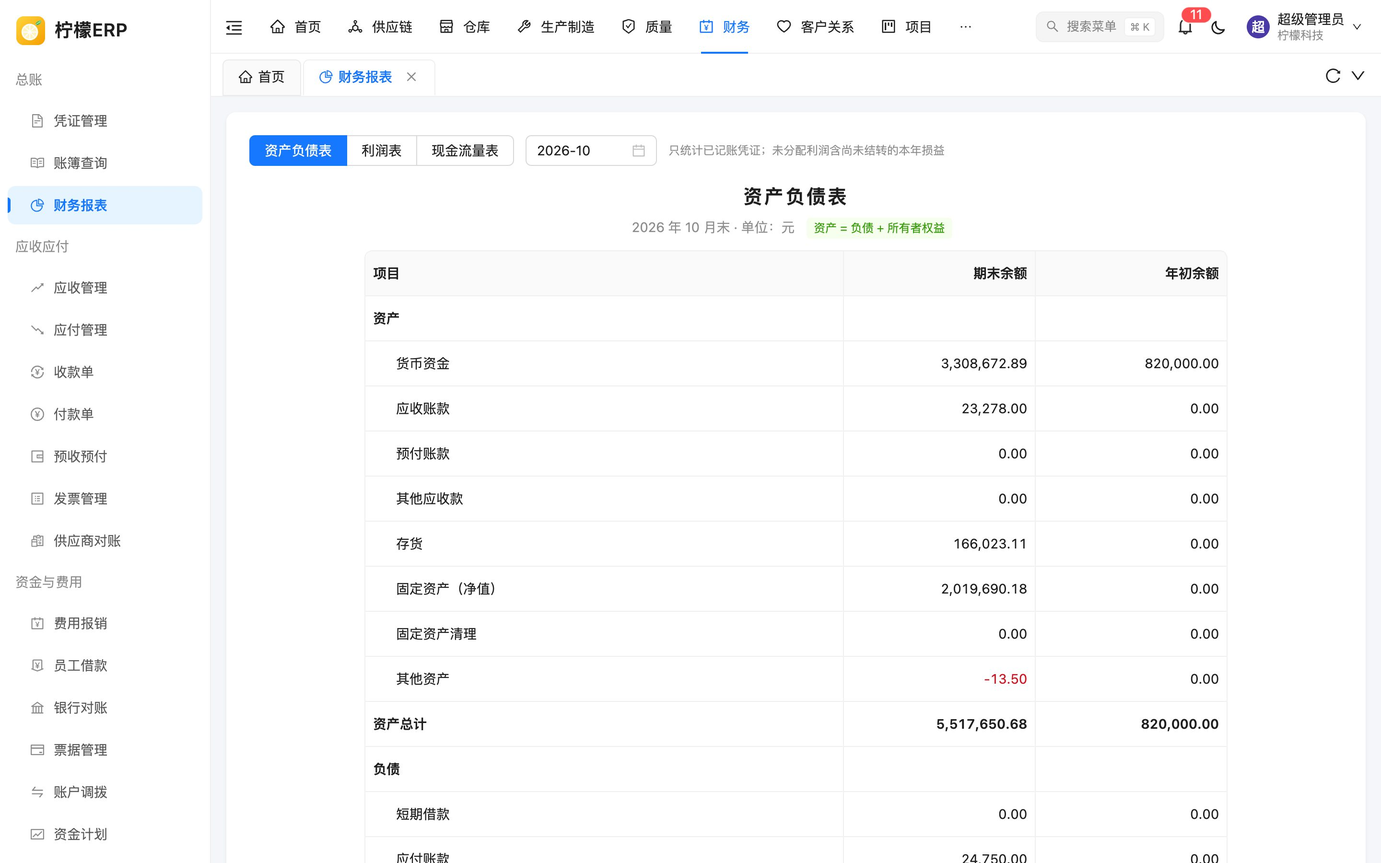
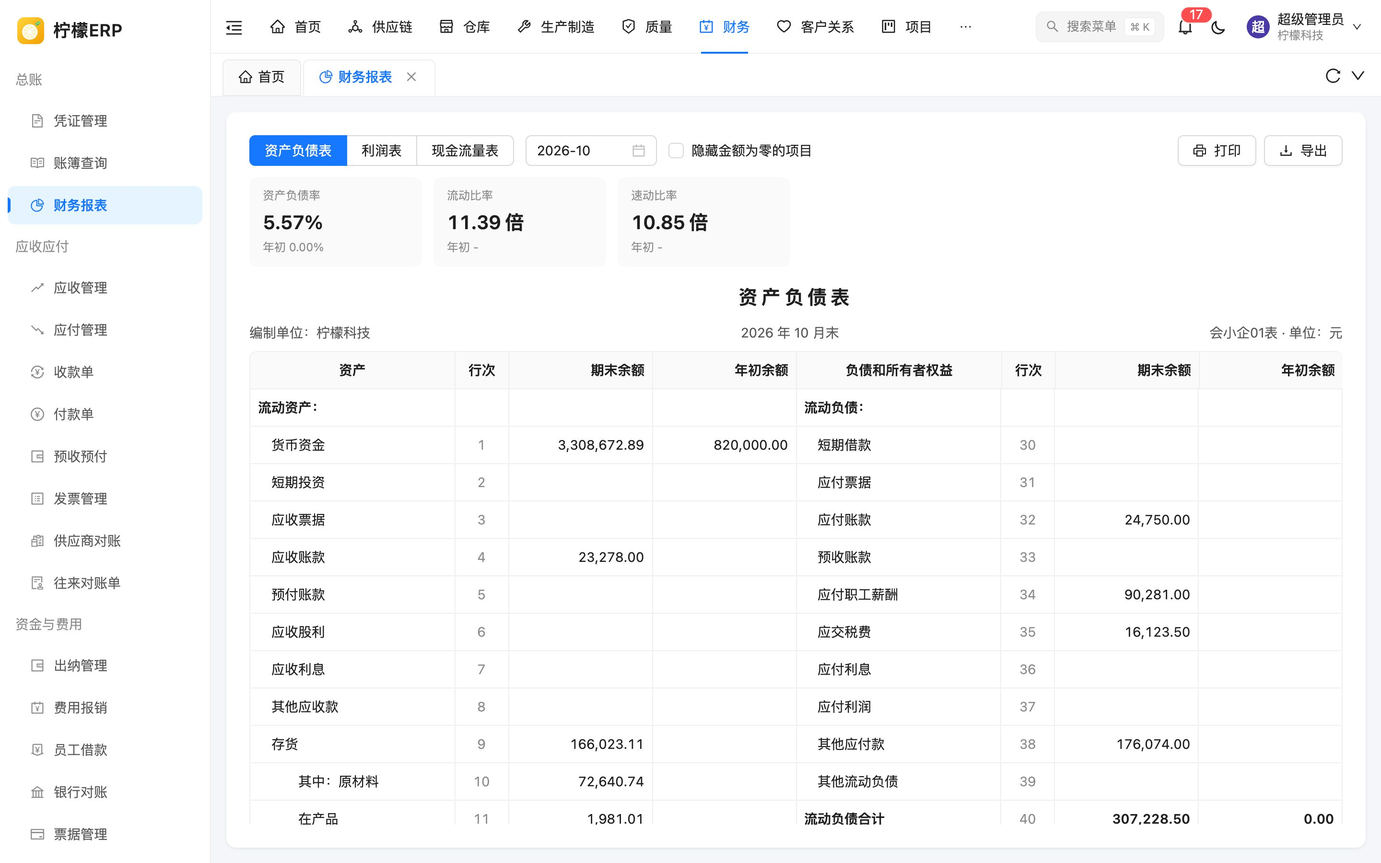
docs: 财务报表改为小企业会计准则格式，更新凭证科目设置与业务参数截图

diff --git a/docs/manual/fin/report.md b/docs/manual/fin/report.md
@@ -4,69 +4,157 @@ order: 3
 
 # 财务报表
 
-根据已记账凭证自动生成资产负债表、利润表和现金流量表，无需手工编制。财务主管、管理层查看。
+根据已记账凭证自动生成资产负债表、利润表和现金流量表，格式参照《小企业会计准则》（会小企01表、会小企02表、会小企03表），每个项目带行次。报表上方列出常用财务指标，利润表下方有本年利润趋势图；点击报表中的金额可以逐级追溯到构成科目、明细账和凭证。报表可以打印和导出 Excel。财务主管、会计、管理层查看。
 
 ## 页面入口
 
 财务 → 总账 → 财务报表
 
-页面顶部用按钮切换三张报表，右侧选择期间；报表标题下方注明期间和「单位：元」。所有报表**只统计已记账的凭证**。
+![资产负债表](/images/manual/fin/report-balance.jpg)
+
+## 页面布局
+
+顶部工具栏从左到右：
+
+| 控件 | 说明 |
+| --- | --- |
+| 「资产负债表」「利润表」「现金流量表」 | 切换报表，默认打开资产负债表 |
+| 期间 | 资产负债表、利润表选择一个月份，默认当前月份；现金流量表选择开始期间和截止期间，默认本年 1 月至当前月份，开始期间晚于截止期间时自动调整为与截止期间相同。修改后立即重新计算 |
+| 「隐藏金额为零的项目」 | 资产负债表、利润表可勾选：各列金额都为零的普通项目不显示（分组标题、合计行始终显示） |
+| 「打印」 | 生成 PDF 打印预览，见[打印与导出](#打印与导出) |
+| 「导出」 | 导出当前报表为 Excel |
+
+工具栏下方依次是：
+
+1. **财务指标卡片**（资产负债表、利润表）：鼠标悬停在卡片上显示计算公式，见[财务指标](#财务指标)；
+2. **报表正文**：居中的报表名称；表头一行左侧为「编制单位」（公司名称），中间为期间（资产负债表为「2026 年 10 月末」，利润表为「2026 年 10 月」，现金流量表为「2026 年 1 月 至 2026 年 10 月」），右侧为表号和「单位：元」；
+3. **表尾签字栏**：「单位负责人」「会计主管」「制表」（制表为当前登录用户）；
+4. **说明**：报表的取数口径提示，例如「只统计已记账凭证；未分配利润含尚未结转的本年损益，生产成本等成本类科目余额计入存货。点击金额可查看构成科目和明细账」；
+5. **利润趋势图**（仅利润表）。
+
+报表中，普通项目金额为零时留空，合计行显示 0.00；负数以红色显示。报表较长时只有报表区域滚动，表头固定在顶部。
+
+::: tip 提示
+所有报表**只统计已记账的凭证**。凭证审核后还需要在[凭证管理](./voucher)中记账，才会进入报表。报表实时计算，记账后重新选择期间或刷新页面即可看到变化。
+:::
+
+## 取数规则
+
+资产负债表和利润表的每个项目按**会计科目编码前缀**取数：
+
+- 取编码以所列前缀开头的**末级科目**，借方项目取「借方 − 贷方」，贷方项目取「贷方 − 借方」；
+- 每个科目只计入第一个匹配的项目，不会重复计算；
+- 「其中」项（如存货下的原材料、在产品）只用于展示，不参与合计；
+- 合计行按行次相加减，例如「流动资产合计」为「行 1 + 2 + … + 9 + 14」；
+- 没有被任何项目匹配到的科目，按科目类别计入兜底项目（其他流动资产、其他流动负债、存货、未分配利润、营业外收入 / 支出），以保证报表平衡。
+
+所以新增明细科目时，只要挂在正确的上级科目之下（见[会计科目](./account)），就会自动进入对应的报表项目。每一行的取数说明可以点击金额查看，见[追溯到科目、明细账和凭证](#追溯到科目、明细账和凭证)。
 
 ## 资产负债表
 
-![资产负债表](/images/manual/fin/report-balance.jpg)
+表号「会小企01表」。左右两栏：左栏为「资产」，右栏为「负债和所有者权益」，每栏有「行次」「期末余额」「年初余额」三列。
 
-- **期间**：选择月份，报表为该月末的余额。
-- **列**：期末余额、年初余额（上年末余额）。
-- 报表按以下项目归集末级科目余额：
+- **期末余额**：所选月份月末的余额；
+- **年初余额**：上年 12 月末的余额；
+- 资产为第 1 ~ 29 行，负债和所有者权益接着从第 30 行编号到第 52 行。
 
-| 分类 | 项目 | 取数科目 |
+| 行次 | 项目 | 取数（科目编码前缀） |
 | --- | --- | --- |
-| 资产 | 货币资金 | 库存现金 1001、银行存款 1002 |
-| | 应收账款 / 预付账款 / 其他应收款 | 1122 / 1123 / 1221 |
-| | 存货 | 原材料 1403、库存商品 1405，以及全部成本类科目（5 开头，如生产成本） |
-| | 固定资产（净值） | 固定资产 1601 减累计折旧 1602 |
-| | 固定资产清理 | 1606 |
-| | 其他资产 | 其余资产类科目 |
-| 负债 | 短期借款、应付账款、预收账款、应付职工薪酬、应交税费、其他应付款 | 2001、2202、2203、2211、2221、2241 |
-| | 其他负债 | 其余负债类科目 |
-| 所有者权益 | 实收资本 | 4001 |
-| | 未分配利润 | 本年利润 4103、利润分配 4104，以及全部损益类科目（6 开头） |
-| | 其他权益 | 其余权益类科目 |
+| | **流动资产：** | |
+| 1 | 货币资金 | 1001 库存现金、1002 银行存款、1012 其他货币资金 |
+| 2 | 短期投资 | 1101 |
+| 3 | 应收票据 | 1121 |
+| 4 | 应收账款 | 1122 |
+| 5 | 预付账款 | 1123 |
+| 6 | 应收股利 | 1131 |
+| 7 | 应收利息 | 1132 |
+| 8 | 其他应收款 | 1221 |
+| 9 | 存货 | 140、141、142 开头（原材料、库存商品、委托加工物资、周转材料等），5 开头（生产成本、制造费用等），4301，以及其他未列示的成本类科目 |
+| 10 ~ 13 | 其中：原材料 / 在产品 / 库存商品 / 周转材料 | 1403 / 5001 / 1405 / 1411（只展示，已包含在存货中） |
+| 14 | 其他流动资产 | 未被列示的其他资产类科目 |
+| 15 | **流动资产合计** | 行 1 ~ 9、14 之和 |
+| | **非流动资产：** | |
+| 16 | 长期债券投资 | 1501 |
+| 17 | 长期股权投资 | 1511 |
+| 18 | 固定资产原价 | 1601 |
+| 19 | 减：累计折旧 | 1602（取贷方余额） |
+| 20 | 固定资产账面价值 | 行 18 − 19 |
+| 21 | 在建工程 | 1604 |
+| 22 | 工程物资 | 1605 |
+| 23 | 固定资产清理 | 1606 |
+| 24 | 生产性生物资产 | 1621、1622 |
+| 25 | 无形资产 | 1701、1702 |
+| 26 | 长期待摊费用 | 1801 |
+| 27 | 其他非流动资产 | 目前不取数 |
+| 28 | **非流动资产合计** | 行 16、17、20 ~ 27 之和 |
+| 29 | **资产总计** | 行 15 + 28 |
+| | **流动负债：** | |
+| 30 | 短期借款 | 2001 |
+| 31 | 应付票据 | 2201 |
+| 32 | 应付账款 | 2202 |
+| 33 | 预收账款 | 2203 预收账款、2205 合同负债 |
+| 34 | 应付职工薪酬 | 2211 |
+| 35 | 应交税费 | 2221 |
+| 36 | 应付利息 | 2231 |
+| 37 | 应付利润 | 2232 |
+| 38 | 其他应付款 | 2241 |
+| 39 | 其他流动负债 | 未被列示的其他负债类科目 |
+| 40 | **流动负债合计** | 行 30 ~ 39 之和 |
+| | **非流动负债：** | |
+| 41 | 长期借款 | 2501 |
+| 42 | 长期应付款 | 2701 |
+| 43 | 递延收益 | 2401 |
+| 44 | 其他非流动负债 | 目前不取数 |
+| 45 | **非流动负债合计** | 行 41 ~ 44 之和 |
+| 46 | **负债合计** | 行 40 + 45 |
+| | **所有者权益（或股东权益）：** | |
+| 47 | 实收资本（或股本） | 4001 |
+| 48 | 资本公积 | 4002 |
+| 49 | 盈余公积 | 4101 |
+| 50 | 未分配利润 | 4103 本年利润、4104 利润分配、全部损益类科目（6 开头），以及其他未列示的权益类、损益类科目 |
+| 51 | **所有者权益合计** | 行 47 ~ 50 之和 |
+| 52 | **负债和所有者权益总计** | 行 46 + 51 |
 
-- **未分配利润包含尚未结转的本年损益**，因此在月末结账之前查看报表也是平衡的。
-- 标题下方显示校验结果：平衡时显示绿色「资产 = 负债 + 所有者权益」，不平衡时显示红色「报表不平衡，请检查科目设置」。
+- **未分配利润包含尚未结转的本年损益**，因此在月末结转损益之前查看报表也是平衡的；
+- **生产成本、制造费用等成本类科目的余额计入存货**（期末在产品等）；
+- 资产总计与负债和所有者权益总计（期末或年初任一列）不相等时，报表上方显示红色提示「报表不平衡：资产总计不等于负债和所有者权益总计，请检查科目设置」。平衡时不显示提示。
 
 ## 利润表
 
+表号「会小企02表」。列为「行次」「本月金额」「本年累计金额」「上年同期累计」：
+
+- **本月金额**：所选月份的发生额；
+- **本年累计金额**：本年 1 月至所选月份；
+- **上年同期累计**：上年 1 月至上年同一月份。
+
 ![利润表](/images/manual/fin/report-income.jpg)
 
-- **期间**：选择月份。
-- **列**：本期金额（当月）、本年累计（1 月至所选月份）。
-- **不含期末结转损益凭证**，因此结账前后查看结果一致。
+| 行次 | 项目 | 取数 |
+| --- | --- | --- |
+| 1 | **一、营业收入** | 6001 主营业务收入、6051 其他业务收入（贷方 − 借方） |
+| 2 | 减：营业成本 | 6401 主营业务成本、6402 其他业务成本 |
+| 3 | 税金及附加 | 6403 |
+| 4 | 销售费用 | 6601 |
+| 5 | 管理费用 | 6602 |
+| 6 | 财务费用 | 6603 |
+| 7 | 加：投资收益 | 6111（贷方 − 借方） |
+| 8 | **二、营业利润** | 行 1 − 2 − 3 − 4 − 5 − 6 + 7 |
+| 9 | 加：营业外收入 | 6301，以及未列示的其他贷方损益科目 |
+| 10 | 减：营业外支出 | 6711，以及未列示的其他借方损益科目 |
+| 11 | **三、利润总额** | 行 8 + 9 − 10 |
+| 12 | 减：所得税费用 | 6801 |
+| 13 | **四、净利润** | 行 11 − 12 |
 
-| 项目 | 取数 |
-| --- | --- |
-| 一、营业收入 | 主营业务收入 6001、其他业务收入 6051 |
-| 减：营业成本 | 主营业务成本 6401、其他业务成本 6402 |
-| 税金及附加 | 6403 |
-| 销售费用 / 管理费用 / 财务费用 | 6601 / 6602 / 6603 |
-| 二、营业利润 | 营业收入 − 营业成本 − 税金及附加 − 三项费用 |
-| 加：营业外收入 | 6301，另加其余未列出的贷方损益科目 |
-| 减：营业外支出 | 6711，另加其余未列出的借方损益科目 |
-| 三、利润总额 | 营业利润 + 营业外收入 − 营业外支出 |
-| 减：所得税费用 | 6801 |
-| 四、净利润 | 利润总额 − 所得税费用 |
-
-收入类取贷方减借方，费用类取借方减贷方，负数以红色显示。
+- 收入类项目取贷方减借方，成本费用类项目取借方减贷方；
+- **不含期末结转损益凭证**，所以月末结账前后查看结果一致。
 
 ## 现金流量表
 
+表号「会小企03表」。选择开始期间和截止期间，只有「行次」「金额」两列。
+
 ![现金流量表](/images/manual/fin/report-cash.jpg)
 
-- **期间**：选择开始期间和截止期间（默认本年 1 月至当前月份），开始期间晚于截止期间时自动调整为与截止期间相同。
-- 采用**直接法**：取已记账凭证中库存现金、银行存款科目的发生额，按凭证中的**对方科目**归类到现金流量项目。
-- 一张凭证有多个对方科目时，按对方科目金额比例分摊；只有现金、银行科目之间的划转（如提现、账户调拨）不计入。
+采用**直接法**：取已记账凭证中库存现金（1001）、银行存款（1002）及其下级科目的发生额，按凭证中的**对方科目**归类到现金流量项目。一张凭证有多个对方科目时，按对方科目金额比例分摊；只有现金、银行科目之间的划转（如提现、账户调拨）不计入。
 
 | 分类 | 项目 | 对方科目规则 |
 | --- | --- | --- |
@@ -76,18 +164,70 @@ order: 3
 | | 支付给职工以及为职工支付的现金 | 应付职工薪酬 |
 | | 支付的各项税费 | 应交税费、税金及附加、所得税费用 |
 | | 支付其他与经营活动有关的现金 | 其余流出 |
-| 投资活动 | 处置固定资产等收回的现金净额 / 购建固定资产等支付的现金 | 固定资产、在建工程、固定资产清理 |
+| 投资活动 | 处置固定资产、无形资产和其他长期资产收回的现金净额 | 流入，对方为固定资产、在建工程、固定资产清理 |
+| | 购建固定资产、无形资产和其他长期资产支付的现金 | 流出，对方同上 |
 | 筹资活动 | 吸收投资收到的现金 | 实收资本流入 |
 | | 取得借款收到的现金 / 偿还债务支付的现金 | 短期借款 |
 | | 分配股利、利润或偿付利息支付的现金 | 实收资本流出、利润分配、财务费用流出 |
 
-每类活动列出现金流入小计、流出小计和净额，最后为「现金及现金等价物净增加额」「期初现金及现金等价物余额」「期末现金及现金等价物余额」。
+每类活动之后列出现金流入小计、现金流出小计和现金流量净额，最后为「四、现金及现金等价物净增加额」「加：期初现金及现金等价物余额」「五、期末现金及现金等价物余额」。除分类标题外，各行按顺序编行次（共 24 行）。
 
-如果计算出的期末余额与账面现金、银行存款余额不一致，页面顶部显示黄色提示（通常是存在未记账的现金凭证）。
+计算出的期末余额与账面库存现金、银行存款余额不一致时，报表上方显示黄色提示「期末余额与账面不一致（账面现金及银行存款余额 ¥…），可能有未记账的现金凭证」。
+
+现金流量表没有财务指标，金额也不能点击追溯；需要查看现金收支明细时使用[出纳管理](./cashier)的日记账。
+
+## 财务指标
+
+资产负债表和利润表的报表上方显示指标卡片：大字为当期值，下方小字为对比值（资产负债表为「年初」，利润表为「本年累计」）。鼠标悬停在卡片上显示计算公式。分母为零时显示「-」。
+
+| 报表 | 指标 | 计算方式 | 含义 |
+| --- | --- | --- | --- |
+| 资产负债表 | 资产负债率 | 负债合计 ÷ 资产总计 × 100% | 总资产中有多少来自负债，衡量长期偿债风险，越高负债压力越大 |
+| | 流动比率 | 流动资产合计 ÷ 流动负债合计（倍） | 每 1 元短期负债有多少流动资产可以偿还，衡量短期偿债能力 |
+| | 速动比率 | （流动资产合计 − 存货）÷ 流动负债合计（倍） | 扣除变现较慢的存货后的短期偿债能力，比流动比率更严格 |
+| 利润表 | 毛利率 | （营业收入 − 营业成本）÷ 营业收入 × 100% | 产品或服务本身的盈利空间 |
+| | 营业利润率 | 营业利润 ÷ 营业收入 × 100% | 扣除成本、税金和三项费用后的经营盈利能力 |
+| | 净利率 | 净利润 ÷ 营业收入 × 100% | 每 1 元收入最终带来的净利润 |
+| | 期间费用率 | （销售费用 + 管理费用 + 财务费用）÷ 营业收入 × 100% | 期间费用占收入的比重，衡量费用控制水平 |
+
+指标保留两位小数。资产负债表的指标分别按期末余额、年初余额计算；利润表的指标分别按本月金额、本年累计金额计算。
+
+## 利润趋势
+
+所选月份为 2 月及以后时，利润表下方显示「XXXX 年利润趋势」图：横轴为本年 1 月至所选月份，柱形为「营业收入」「营业成本」，折线为「营业利润」「净利润」，鼠标悬停显示各月金额。口径与利润表相同：只统计已记账凭证，不含结转损益凭证。
+
+![利润趋势](/images/manual/fin/report-trend.jpg)
+
+## 追溯到科目、明细账和凭证
+
+资产负债表、利润表中有取数规则的金额（项目行、其中项和合计行）都可以点击，鼠标移上去时金额变为带下划线的主题色。点击后右侧打开以项目名称为标题的抽屉：
+
+![追溯到科目和明细账](/images/manual/fin/report-drill.jpg)
+
+1. **取数说明**：显示「行次」「取数」和该行各列的金额。取数为科目规则（如「科目 1001、1002、1012 的借方余额」，兜底项目会注明「以及未列示的其他资产类科目」）或行次公式（如「行 15 + 28」）；
+2. **构成科目**：列出该项目包含的、有余额或发生额的末级科目，以及各科目在各列的金额（按报表行的方向取数）。没有科目时显示「没有余额或发生额的科目」。合计行没有构成科目，只显示行次公式，可以关闭后再点击被合计的各行；
+3. **明细账**：点击构成科目的编码，下方显示该科目的明细账（期间为本年 1 月至报表所选月份），包括「期初余额」行、逐笔分录（日期、凭证号、摘要、借方、贷方、方向、余额）和「本期合计」行，当前选中的科目整行高亮；
+4. **凭证**：点击明细账中的凭证号，打开该凭证的详情，可以查看分录、附件，也可以打印。
+
+关闭抽屉即回到报表，报表的期间和滚动位置不变。
+
+::: tip 提示
+利润表「上年同期累计」列的构成科目金额可以在抽屉中看到，但明细账只查询本年 1 月至所选月份。需要查看上年明细时，到[账簿查询](./book)中选择相应期间。
+:::
+
+## 打印与导出
+
+- **打印**：按当前显示的报表生成 PDF，默认 A4 纵向，版式与页面一致：报表名称、编制单位、期间、单位与表号，表格各列，以及签字栏「单位负责人」「会计主管」「制表」。勾选了「隐藏金额为零的项目」时，打印结果同样不含这些项目。三张报表在[打印模板](../system/print-template)的「财务」分组下各有一个模板（「资产负债表」「利润表」「现金流量表」），可以调整纸张、字号、列宽、签字栏名称等；
+- **导出**：导出为 Excel 文件，文件名为「报表名称_期间」，例如「资产负债表_2026 年 10 月末」。列与页面一致（项目名称按层级缩进），金额导出为数字，可直接在 Excel 中计算。
 
 ## 注意事项
 
 ::: tip 提示
-- 报表数据实时计算，凭证记账后刷新即可看到变化。
-- 报表项目按科目编码取数，新增科目请按[会计科目](./account)的编码规则挂在正确的上级之下，否则会进入「其他」项目。
+- 报表数据实时计算，凭证记账后即可看到变化，不需要结账。
+- 报表项目按科目编码取数，新增科目请按[会计科目](./account)的编码规则挂在正确的上级之下，否则会进入「其他流动资产」「其他流动负债」「未分配利润」「营业外收入 / 支出」等兜底项目。
+- 资产负债表不平衡通常是因为科目期初余额借贷不平衡或科目类别设置错误，可在[账簿查询](./book)的科目余额表中检查试算平衡。
+:::
+
+::: warning 注意
+资产负债表的货币资金包含其他货币资金（1012），而现金流量表只统计库存现金和银行存款（1001、1002）。使用了其他货币资金科目时，现金流量表的期末余额与资产负债表的货币资金会有差异。
 :::

diff --git a/docs/dev/guide/doc-no-print.md b/docs/dev/guide/doc-no-print.md
@@ -102,7 +102,7 @@ printDocs(doc, '打印任务标题', '模板标识')
 | `title` | string | 单据名称，如「记账凭证」 |
 | `no` | string | 单号，显示在标题下方（`No. 单号`） |
 | `fields` | `[标签, 值, 是否整行][]` | 表头字段，每行三个，第三项为 `true` 时独占一行 |
-| `columns` | `{ title, key?, value?, align?, width? }[]` | 明细列：`key` 取行的字段，或 `value(row, index)` 计算；`align: 'right'` 右对齐；`width` 列宽（mm），一般不在代码中写，由打印模板设置 |
+| `columns` | `{ title, id?, key?, value?, align?, width? }[]` | 明细列：`key` 取行的字段，或 `value(row, index)` 计算；`align: 'right'` 右对齐；`width` 列宽（mm），一般不在代码中写，由打印模板设置（财务报表这类固定版式的报表在代码中给出默认列宽）；`id` 为打印模板匹配用的标识，默认同 `title`，同一张单据中有同名列时用它区分（如资产负债表左右两栏都有「行次」「期末余额」，右栏的 `id` 为「行次（右）」「期末余额（右）」，打印出来的列名仍是 `title`） |
 | `rows` | object[] | 明细行 |
 | `totals` | object | 合计行 `{ 列 key: 值 }`，按列的 `key` 对应到列上（没有 `key` 的列不能放合计值）；第一列没有值时显示「合计」 |
 | `sections` | `{ title, columns, rows }[]` | 主明细之后的其他明细表（如生产任务单的工序），最多 5 个 |
@@ -110,7 +110,7 @@ printDocs(doc, '打印任务标题', '模板标识')
 | `note` | string | 备注，显示在明细之后 |
 | `slip` | boolean | 条状单据（工资条）：一页连续打印多条，之间用虚线分隔，每条不跨页拆开 |
 
-表头字段、明细列、签字栏的**名称就是它们的标识**：打印模板按名称匹配配置，套打按名称定位，上传的 JRXML 按名称取值（`$P{FIELDS}.get("供应商")`、`$F{物料名称}`）。因此同一张单据中的名称不要重复，也不要随意修改已有单据的名称，否则用户保存过的模板会对应不上。
+表头字段、明细列（有 `id` 时为 `id`）、签字栏的**名称就是它们的标识**：打印模板按名称匹配配置，套打按名称定位，上传的 JRXML 按名称取值（`$P{FIELDS}.get("供应商")`、`$F{物料名称}`）。因此同一张单据中的名称不要重复，也不要随意修改已有单据的名称，否则用户保存过的模板会对应不上。
 
 真实示例（`components/fin/VoucherDetail.vue`）：
 
@@ -244,7 +244,7 @@ export const PRINT_TYPES = [
 | `key` | 模板标识，`printDocs` 的第三个参数，建议「模块.单据」（只能包含字母、数字、下划线和点，最长 64 个字符） |
 | `module` / `name` | 模板列表中的分组和名称 |
 | `fields` | 表头字段名称，**与 doc.fields 中的标签一致** |
-| `columns` | 明细列标题，**与 doc.columns 中的 title 一致**；数字列可写 `{ title: '数量', align: 'right' }`（文件内的 `num('数量')`） |
+| `columns` | 明细列标题，**与 doc.columns 中的 title 一致**（列有 `id` 时与 `id` 一致）；数字列可写 `{ title: '数量', align: 'right' }`（文件内的 `num('数量')`） |
 | `signs` | 签字栏名称，**与 doc.signs 中的名称一致** |
 | `note` | 是否有备注 |
 | `slip` | 是否条状单据 |
@@ -303,6 +303,7 @@ function print(r) {
 | `scm.pickList`、`scm.wavePick`、`scm.packingList` | 拣货单、波次拣货单、装箱单 |
 | `wms.in`、`wms.out`、`wms.transfer` | 入库单、出库单、调拨单 |
 | `fin.voucher` | 记账凭证 |
+| `fin.balanceSheet`、`fin.incomeStatement`、`fin.cashFlow` | 资产负债表、利润表、现金流量表（`views/fin/report`，明细列为报表的项目、行次和金额列） |
 | `fin.partnerStatement` | 往来对账单（客户 / 供应商共用一个模板） |
 | `mes.workOrder` | 生产任务单 |
 | `hr.payslip` | 工资条（条状） |

diff --git a/docs/manual/system/biz-rule.md b/docs/manual/system/biz-rule.md
@@ -27,7 +27,7 @@ order: 12
 - 修改过（与默认值不同并已保存）的参数显示蓝色「已修改」标签；
 - 改动后尚未保存的参数显示橙色「未保存」标签；
 - 当前值与默认值不同时，右侧出现「恢复默认」链接，点击后把输入恢复为默认值（仍需保存）；
-- 页面底部「放弃修改」撤销全部未保存的改动，「保存（N）」一次保存全部改动（N 为改动的参数个数），各页签的改动会一起保存，成功后提示「已保存」；
+- 页面占满内容区，参数较多时只有中间的参数区域滚动；页面底部固定显示「放弃修改」「保存（N）」按钮：「放弃修改」撤销全部未保存的改动，「保存（N）」一次保存全部改动（N 为改动的参数个数），各页签的改动会一起保存，成功后提示「已保存」；
 - 保存后**立即生效**，不需要重新登录；
 - 没有「业务参数修改」权限的用户只能查看，输入框不可编辑，也没有底部按钮。
 

diff --git a/docs/manual/fin/index.md b/docs/manual/fin/index.md
@@ -12,7 +12,7 @@
 | --- | --- | --- |
 | 总账 | [凭证管理](./voucher) | 凭证录入、审核、记账、冲销、反审核，凭证审批 |
 | | [账簿查询](./book) | 科目余额表、明细账、辅助核算（部门 / 客户 / 供应商 / 项目 / 存货） |
-| | [财务报表](./report) | 资产负债表、利润表、现金流量表 |
+| | [财务报表](./report) | 小企业会计准则格式的资产负债表、利润表、现金流量表，带行次和财务指标、利润趋势，点击金额追溯到科目、明细账和凭证，可打印、导出 |
 | 应收应付 | [应收管理与应付管理](./ar-ap) | 应收应付单、生成凭证、坏账核销、账龄分析 |
 | | [收款单与付款单](./settlement) | 收付款核销、付款审批、外币核销 |
 | | [预收预付](./advance) | 预收、预付款登记与冲抵 |

diff --git a/docs/manual/fin/month-end.md b/docs/manual/fin/month-end.md
@@ -67,7 +67,7 @@ order: 29
 
 ## 第十步：查看报表
 
-[财务报表](./report)：查看 2026 年 10 月的资产负债表（确认平衡）、利润表、现金流量表；[预算管理](./budget)查看预算执行情况。
+[财务报表](./report)：查看 2026 年 10 月的资产负债表（确认平衡，不平衡时报表上方有红色提示）、利润表、现金流量表，需要时打印或导出存档；对有疑问的金额可以直接点击，追溯到构成科目、明细账和凭证；[预算管理](./budget)查看预算执行情况。
 
 ## 结账后发现错误怎么办
 

diff --git a/docs/manual/system/print-template.md b/docs/manual/system/print-template.md
@@ -19,7 +19,7 @@ order: 9
 | 通用设置 | 公司名称 |
 | 供应链 | 采购订单、销售订单、采购入库单、采购退货单、销售出库单、销售退货单、拣货单、波次拣货单、装箱单 |
 | 仓库 | 入库单、出库单、调拨单 |
-| 财务 | 记账凭证、往来对账单 |
+| 财务 | 记账凭证、资产负债表、利润表、现金流量表、往来对账单 |
 | 生产 | 生产任务单 |
 | 人力 | 工资条 |
 | 标签 | 物料标签、库位标签、箱标签 |

diff --git a/docs/manual/fin/account-rule.md b/docs/manual/fin/account-rule.md
@@ -20,7 +20,7 @@ order: 28
 - 设置过的用途名称后显示蓝色「已设置」标签；修改后还没保存的显示橙色「未保存」标签。
 - 只能选择**启用的末级科目**，可按编码或名称搜索；清空选择框即恢复使用预置科目。
 
-页面底部：
+页面占满内容区，用途较多时只有中间的设置区域滚动，以下按钮固定在页面底部，随时可以点击：
 
 | 按钮 | 作用 |
 | --- | --- |
